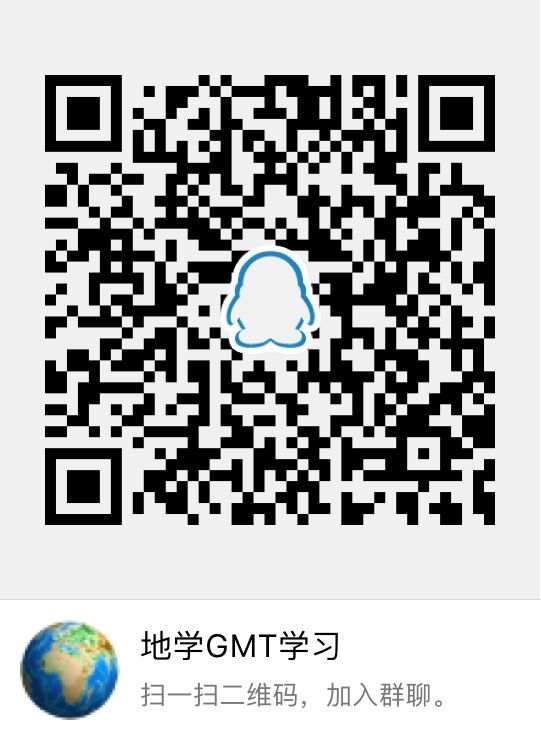
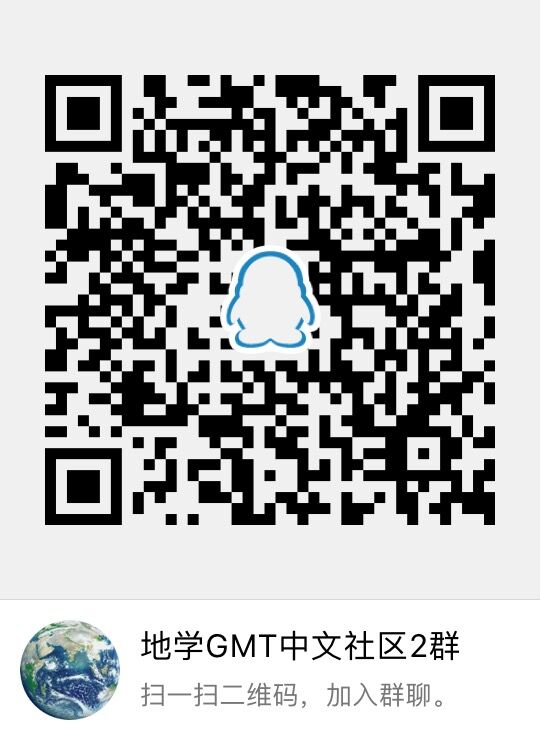
update qq group information

diff --git a/content/about/_index.md b/content/about/_index.md
@@ -18,7 +18,10 @@ GMT中文社区是一个面向GMT中文用户的非盈利社区。
 {{% col 6 %}}
 ## 联系方式
 
-GMT 学习QQ群: 218905582
+GMT中文社区官方QQ群：
+
+ - 1群：218905582 （已满）
+ - 2群：791856541
 
 社区建议及投稿请联系： [admin@gmt-china.org](mailto:admin@gmt-china.org)
 {{% /col %}}
